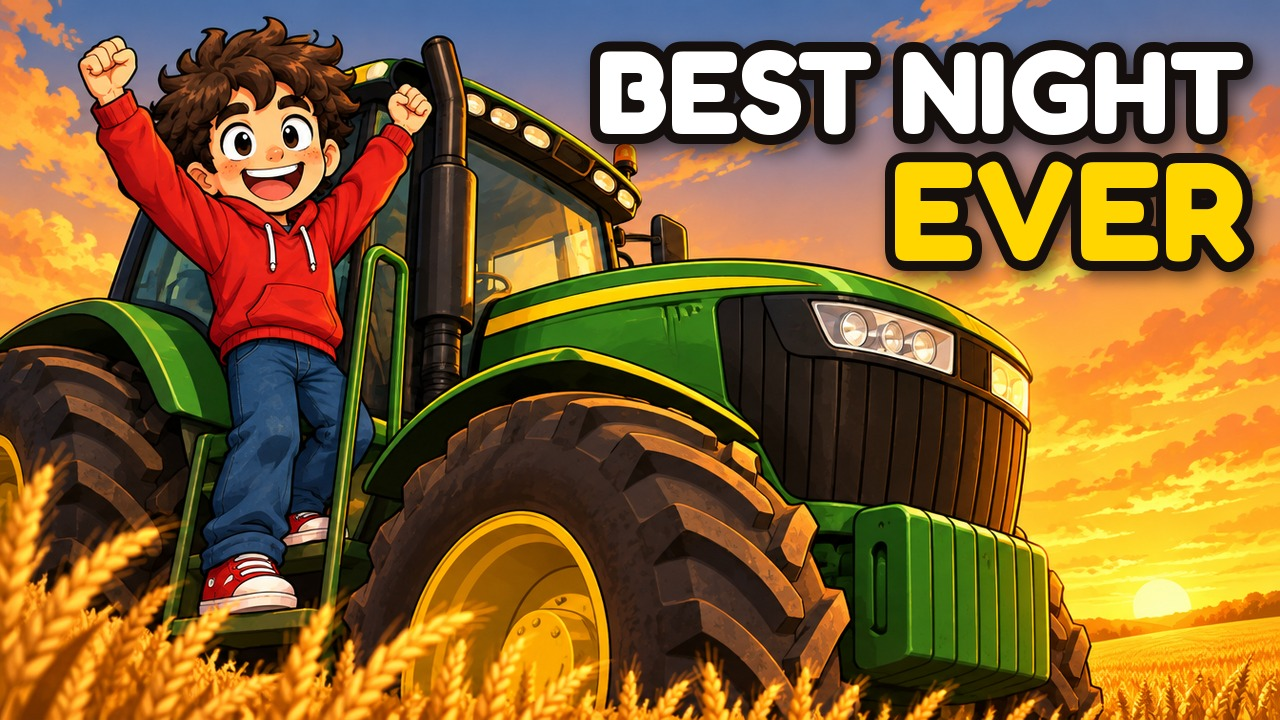
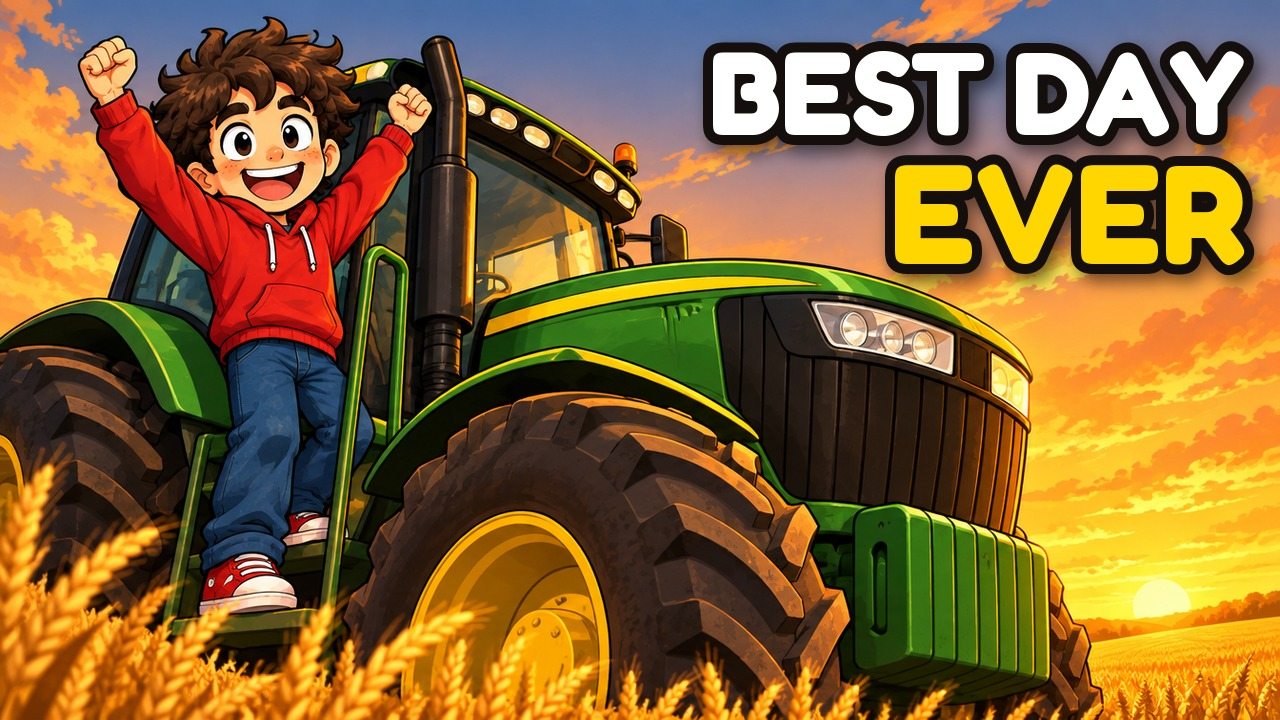
Quest_v1 prompt spec + QC checklist; thumbnail 2 text fixed to match the daytime scene
Claude-Session: https://claude.ai/code/session_01Bi3PXNKGSfsqTH99bT8fk5

Changed region(s): [[0.4375, 0.0306, 1.0, 0.3972]]

diff --git a/secondquest/docs/QUEST_V1_PROMPT_SPEC.md b/secondquest/docs/QUEST_V1_PROMPT_SPEC.md
@@ -1,0 +1,34 @@
+# Quest_v1: mandatory spec for every Higgsfield generation
+
+This spec exists because of a mistake on 2026-10-02. EP001 thumbnail 1 came out with Quest wearing brown boots, and thumbnail 2 put the text "night" on a sunset scene. Both were errors in the prompt and in QC, and they cost credits.
+
+## 1. Required identity block in every prompt that shows Quest
+
+```
+The SAME cartoon character as in the reference images (Quest_v1): young man, dark brown curly hair, light freckles, same face and proportions.
+Outfit (never change): plain red hoodie with white drawstrings, no logos; blue denim jeans; RED canvas sneakers with white soles and white laces.
+Same 2D cartoon style: bold ink outlines, flat cel shading.
+```
+
+**References:**
+- Always attach the approved Quest_v1 jobs `ab2219a6-ee5c-4c3e-bb8e-10f4866781b2` and `f42c30bd-ce09-4ada-81c2-f2e33b6943fb` as `image_references`.
+- If the shot shows the feet or the full body, also say so in the prompt: "his RED sneakers are visible".
+
+## 2. Text and scene must match
+
+Before generating, check that any text that will go on the image agrees with what the scene shows:
+- **Time of day:** night, day or sunset.
+- **Weather.**
+- **Objects:** if the text names a tractor or a price, the image must show it.
+
+If they do not agree, fix the prompt or the text **before** spending credits.
+
+## 3. QC before showing anything to the Producer (all items must pass)
+
+- [ ] Face matches Quest_v1: curly dark hair, freckles, eyes.
+- [ ] Red hoodie, blue jeans, **red sneakers**. Check the feet whenever they are in frame.
+- [ ] No logos, brands or stray text in the generated image.
+- [ ] Overlaid text agrees with the scene (time of day, objects).
+- [ ] Readable at phone size (168x94 and 246x138).
+
+If an item fails, report it to the Producer as a defect. Never present a failing image as "acceptable".
